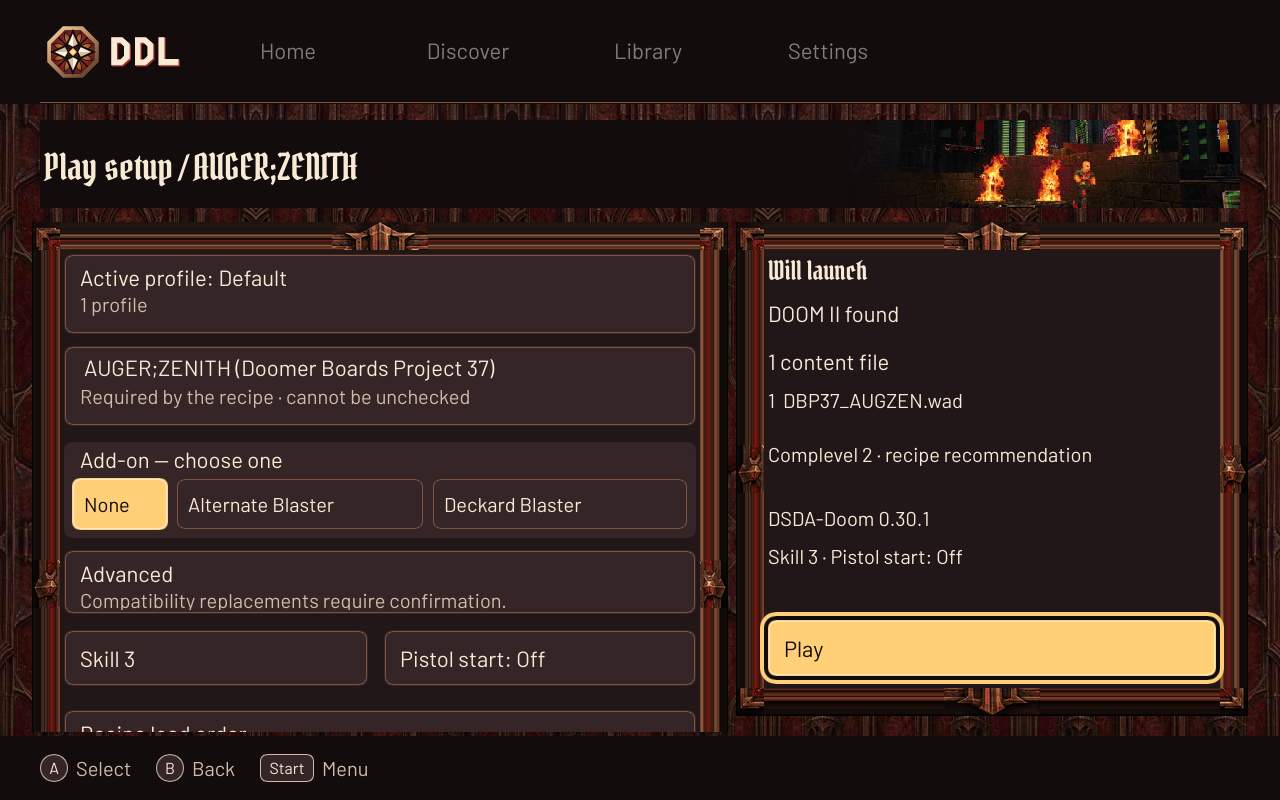
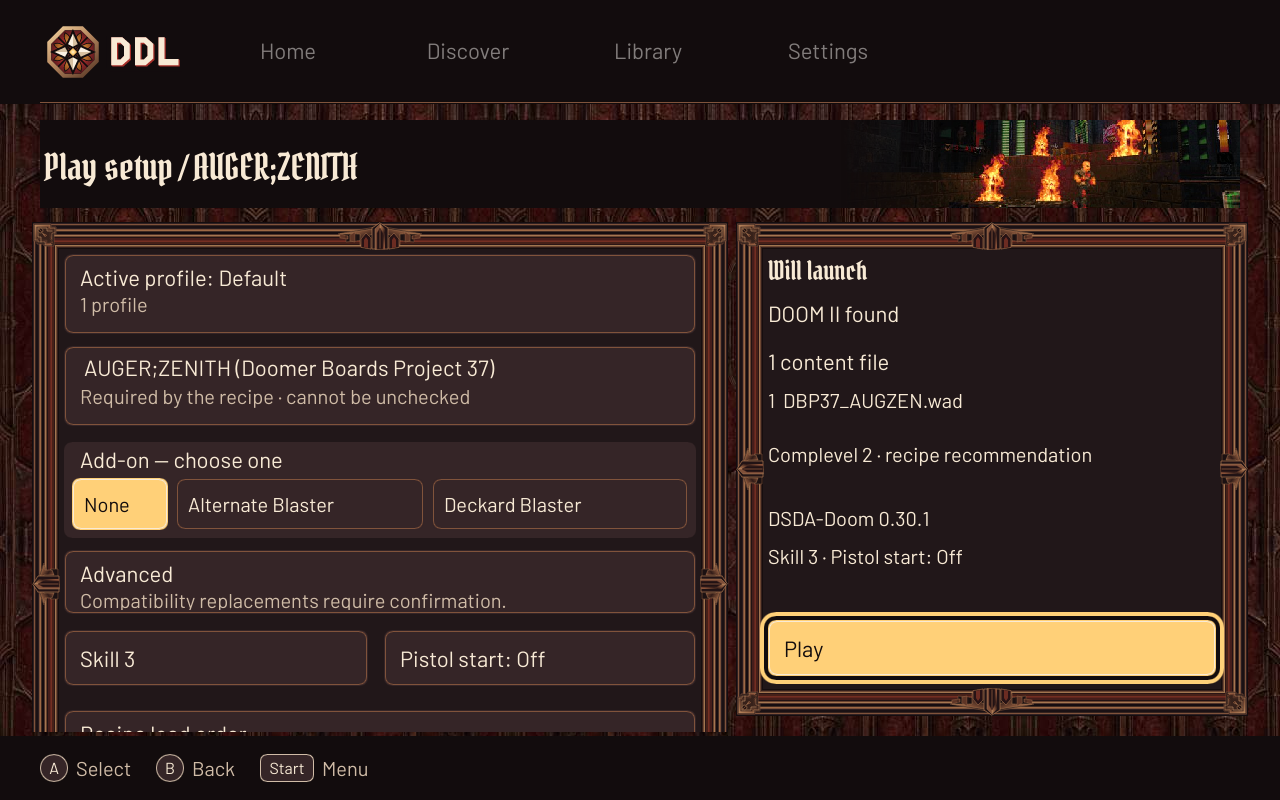
Refresh vector frame screenshots and finish validation report

Changed region(s): [[0.0, 0.2812, 1.0, 0.9062]]

diff --git a/docs/reports/048-vector-panel-frames.md b/docs/reports/048-vector-panel-frames.md
@@ -68,15 +68,21 @@ was used on the owner's machine.
   off-screen and checks all joints at both scales and two sizes.
 - **A2:** owner ("Melhor") and coordinator approved the revised dark gothic
   design before production wiring. Final four-screen comparisons on the fixed
-  wall are pending the coordinator's main-ready/build-slot signal.
-- **A3:** final fmt/clippy/workspace/screenshot checks pending.
+  wall exist and were inspected. The owner approved all four final renders and
+  the 4× corner on 2026-10-20; the coordinator relayed that approval.
+- **A3:** `cargo fmt --all --check`, `cargo clippy --workspace --all-targets --
+  -D warnings` and `cargo test --workspace` pass after merging `c4b6380`. The
+  workspace suite reports **582 passed**, including 140 DDL unit/headless tests,
+  408 ddl-core unit tests, integration tests and three doctests.
+  `python3 scripts/readme-screenshots.py --check` also passes: all four committed
+  PNGs match freshly rendered and recompressed output byte-identically.
 
 Design artifacts (uncommitted, under `target/vector-frames/`):
 `design-1x.png`, `design-fit.png`, `design-1x-corner-4x.png`,
 `design-fit-corner-4x.png`, `home-design.png`, `home-design-before-after.png`.
 The last two are explicitly design mockups: the existing headless Home image
 with candidate perimeters rendered over it by the software renderer. The
-production screen comparisons will be separate final artifacts.
+production screen comparisons are separate final artifacts below.
 
 Targeted production journeys: Home and AUGER setup/components pass, including
 native-size opaque SVG crest pixels. A pixel comparison against the old Home
@@ -88,7 +94,7 @@ Frame asset bytes: **23,645 B** (five PNGs) → **25,163 B** (twelve SVGs),
 with no off-canvas copies of the other corners. Before/after optimization renders
 are pixel-identical at both 1× and 1.35×; the approved artwork is unchanged.
 
-## Dependencies and remaining work
+## Dependencies and follow-up
 
 No new Cargo or runtime dependencies. Authoring uses Python's standard library.
 Existing Pillow 12.3.0 was used only to assemble review PNGs; existing resvg
@@ -99,9 +105,11 @@ the design gate on 2026-10-19; production wiring followed that approval.
 
 Merged green `main` (`68c4e5e`, including 045) in `72107ea`; the sole conflict
 was resolved by retaining 045's `--wall-only` path and the vector-frame removal.
-Pending: final production comparisons and the coordinator's "slot go" signal,
-then README images, full checks in that slot and final visual review. No protected source-of-truth
-files were edited.
+After final owner approval, merged main `305d644` (049 band fade) cleanly in
+`0bc6562`. With the build slot granted, merged main `c4b6380` (038 catalog
+TOML and documentation, plus the intervening main changes) cleanly in `38e4ca4`
+before regenerating the README images. No protected source-of-truth files were
+manually edited.
 
 Proposal outside this task's ownership: update the obsolete `CONTRIBUTING.md`
 UI-art exception that says the frame and ornaments remain PNG. They are now
@@ -136,3 +144,49 @@ Intentional HTTP transport tests use synthetic loopback servers, never public
 upstream endpoints. Targeted Services suite: **36 passed**, including default
 schema migration and the unchanged cancellation/no-write contract. The seven
 local UI tests also pass with the offline fixture.
+
+
+## Final production review on the seamless wall
+
+Before images are the committed, headless-generated README baseline from green
+main `68c4e5e`. After images are fresh Slint software-renderer PNGs from the
+three production journeys, under `target/vector-frames/final-main/`; every
+journey passed. All four screens were visually inspected. Home's pixels outside
+the two 28 px frame perimeters are byte-identical to the main baseline.
+
+| Screen | Before/after artifact (before left, after right) |
+| --- | --- |
+| Home | `target/vector-frames/review/home-before-after.png` |
+| Discover | `target/vector-frames/review/discover-before-after.png` |
+| Mapset detail | `target/vector-frames/review/mapset-detail-before-after.png` |
+| Play setup | `target/vector-frames/review/play-setup-before-after.png` |
+| Corner, nearest-neighbour 4× | `target/vector-frames/review/corner-before-after-4x.png` |
+
+Native 1280×800 after images: `target/vector-frames/after/`.
+The complete targeted output is `target/vector-frames/targeted-final.log`.
+These review PNGs and logs are intentionally uncommitted.
+
+
+## Final README refresh and validation
+
+After merging `c4b6380`, `python3 scripts/readme-screenshots.py` passed all
+three production journeys and regenerated the four losslessly compressed,
+1280×800 README PNGs. All four refreshed images were inspected headlessly;
+they combine the approved vector frames with main's 049 band fade and current
+catalog. The earlier approved before/after artifacts remain under `target/`.
+
+| README image | Bytes |
+| --- | ---: |
+| `docs/screenshots/home.png` | 288,661 |
+| `docs/screenshots/discover.png` | 534,613 |
+| `docs/screenshots/mapset-detail.png` | 478,384 |
+| `docs/screenshots/play-setup.png` | 277,157 |
+
+The final shell commands use `set -o pipefail` and propagate each command's
+exit status. Logs are kept under `target/vector-frames/`: `final-readme.log`,
+`final-fmt.log`, `final-clippy.log`, `final-workspace.log` and
+`final-readme-check.log`. No visible window or screen capture was used.
+
+All spec 048 acceptance criteria are complete; no implementation items remain
+open. Actual Deck/femtovg presentation remains the hardware validation noted
+above, with renderer compatibility established from pinned upstream source.
